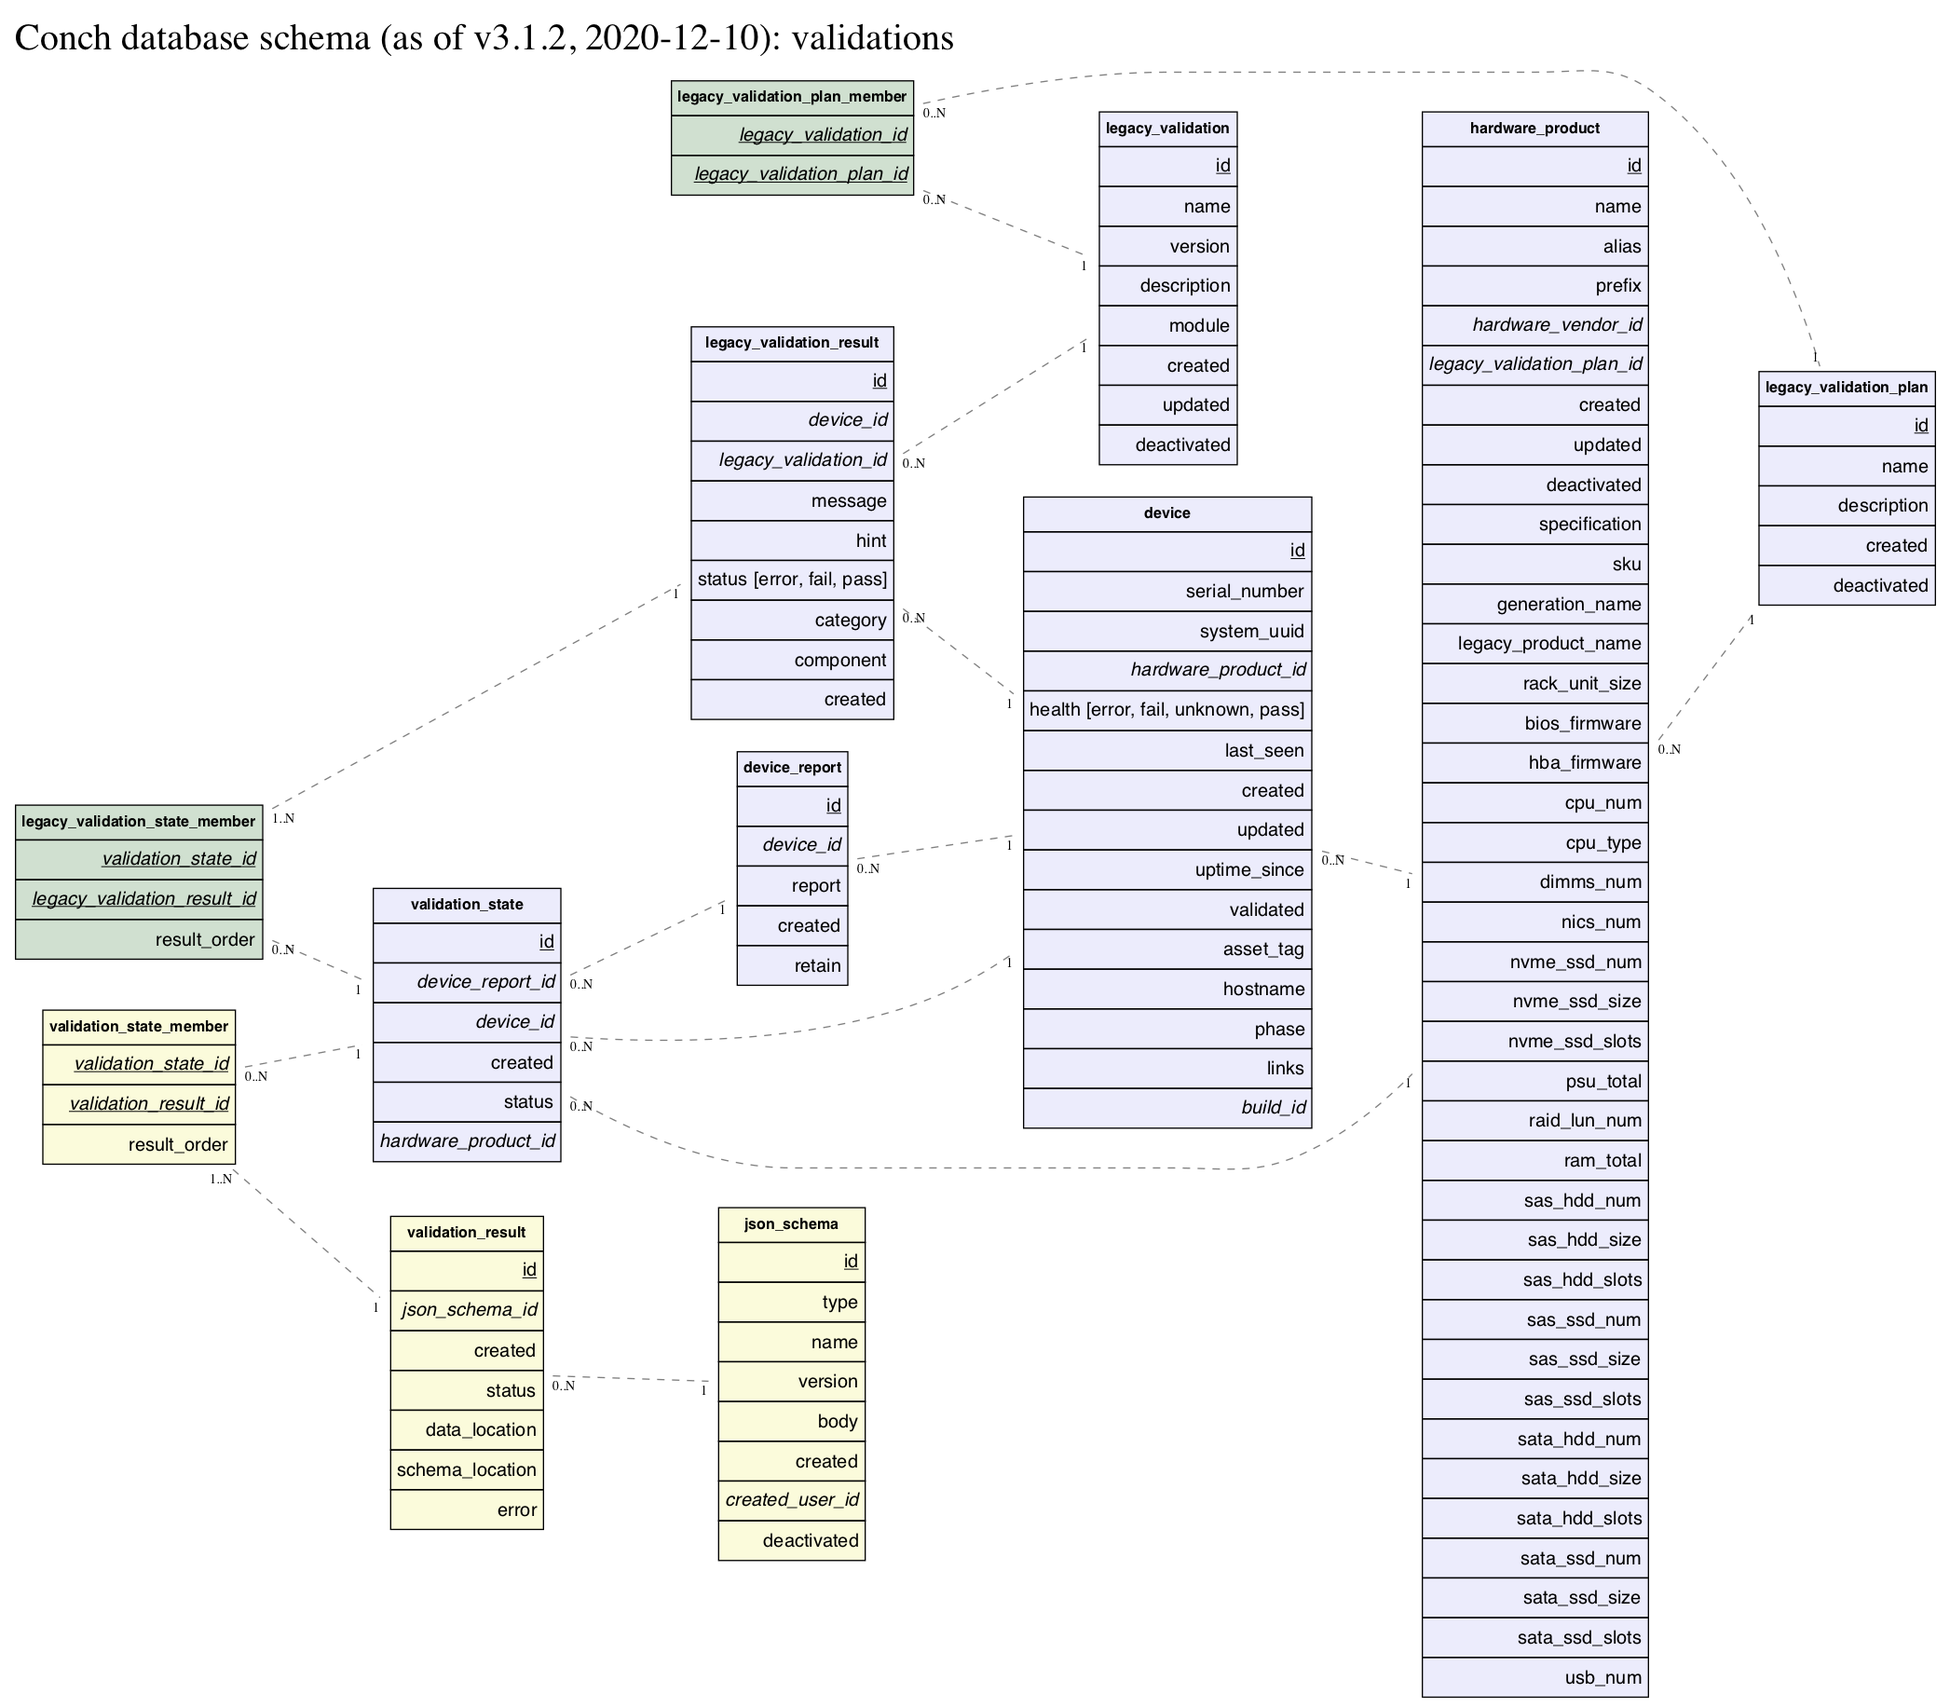
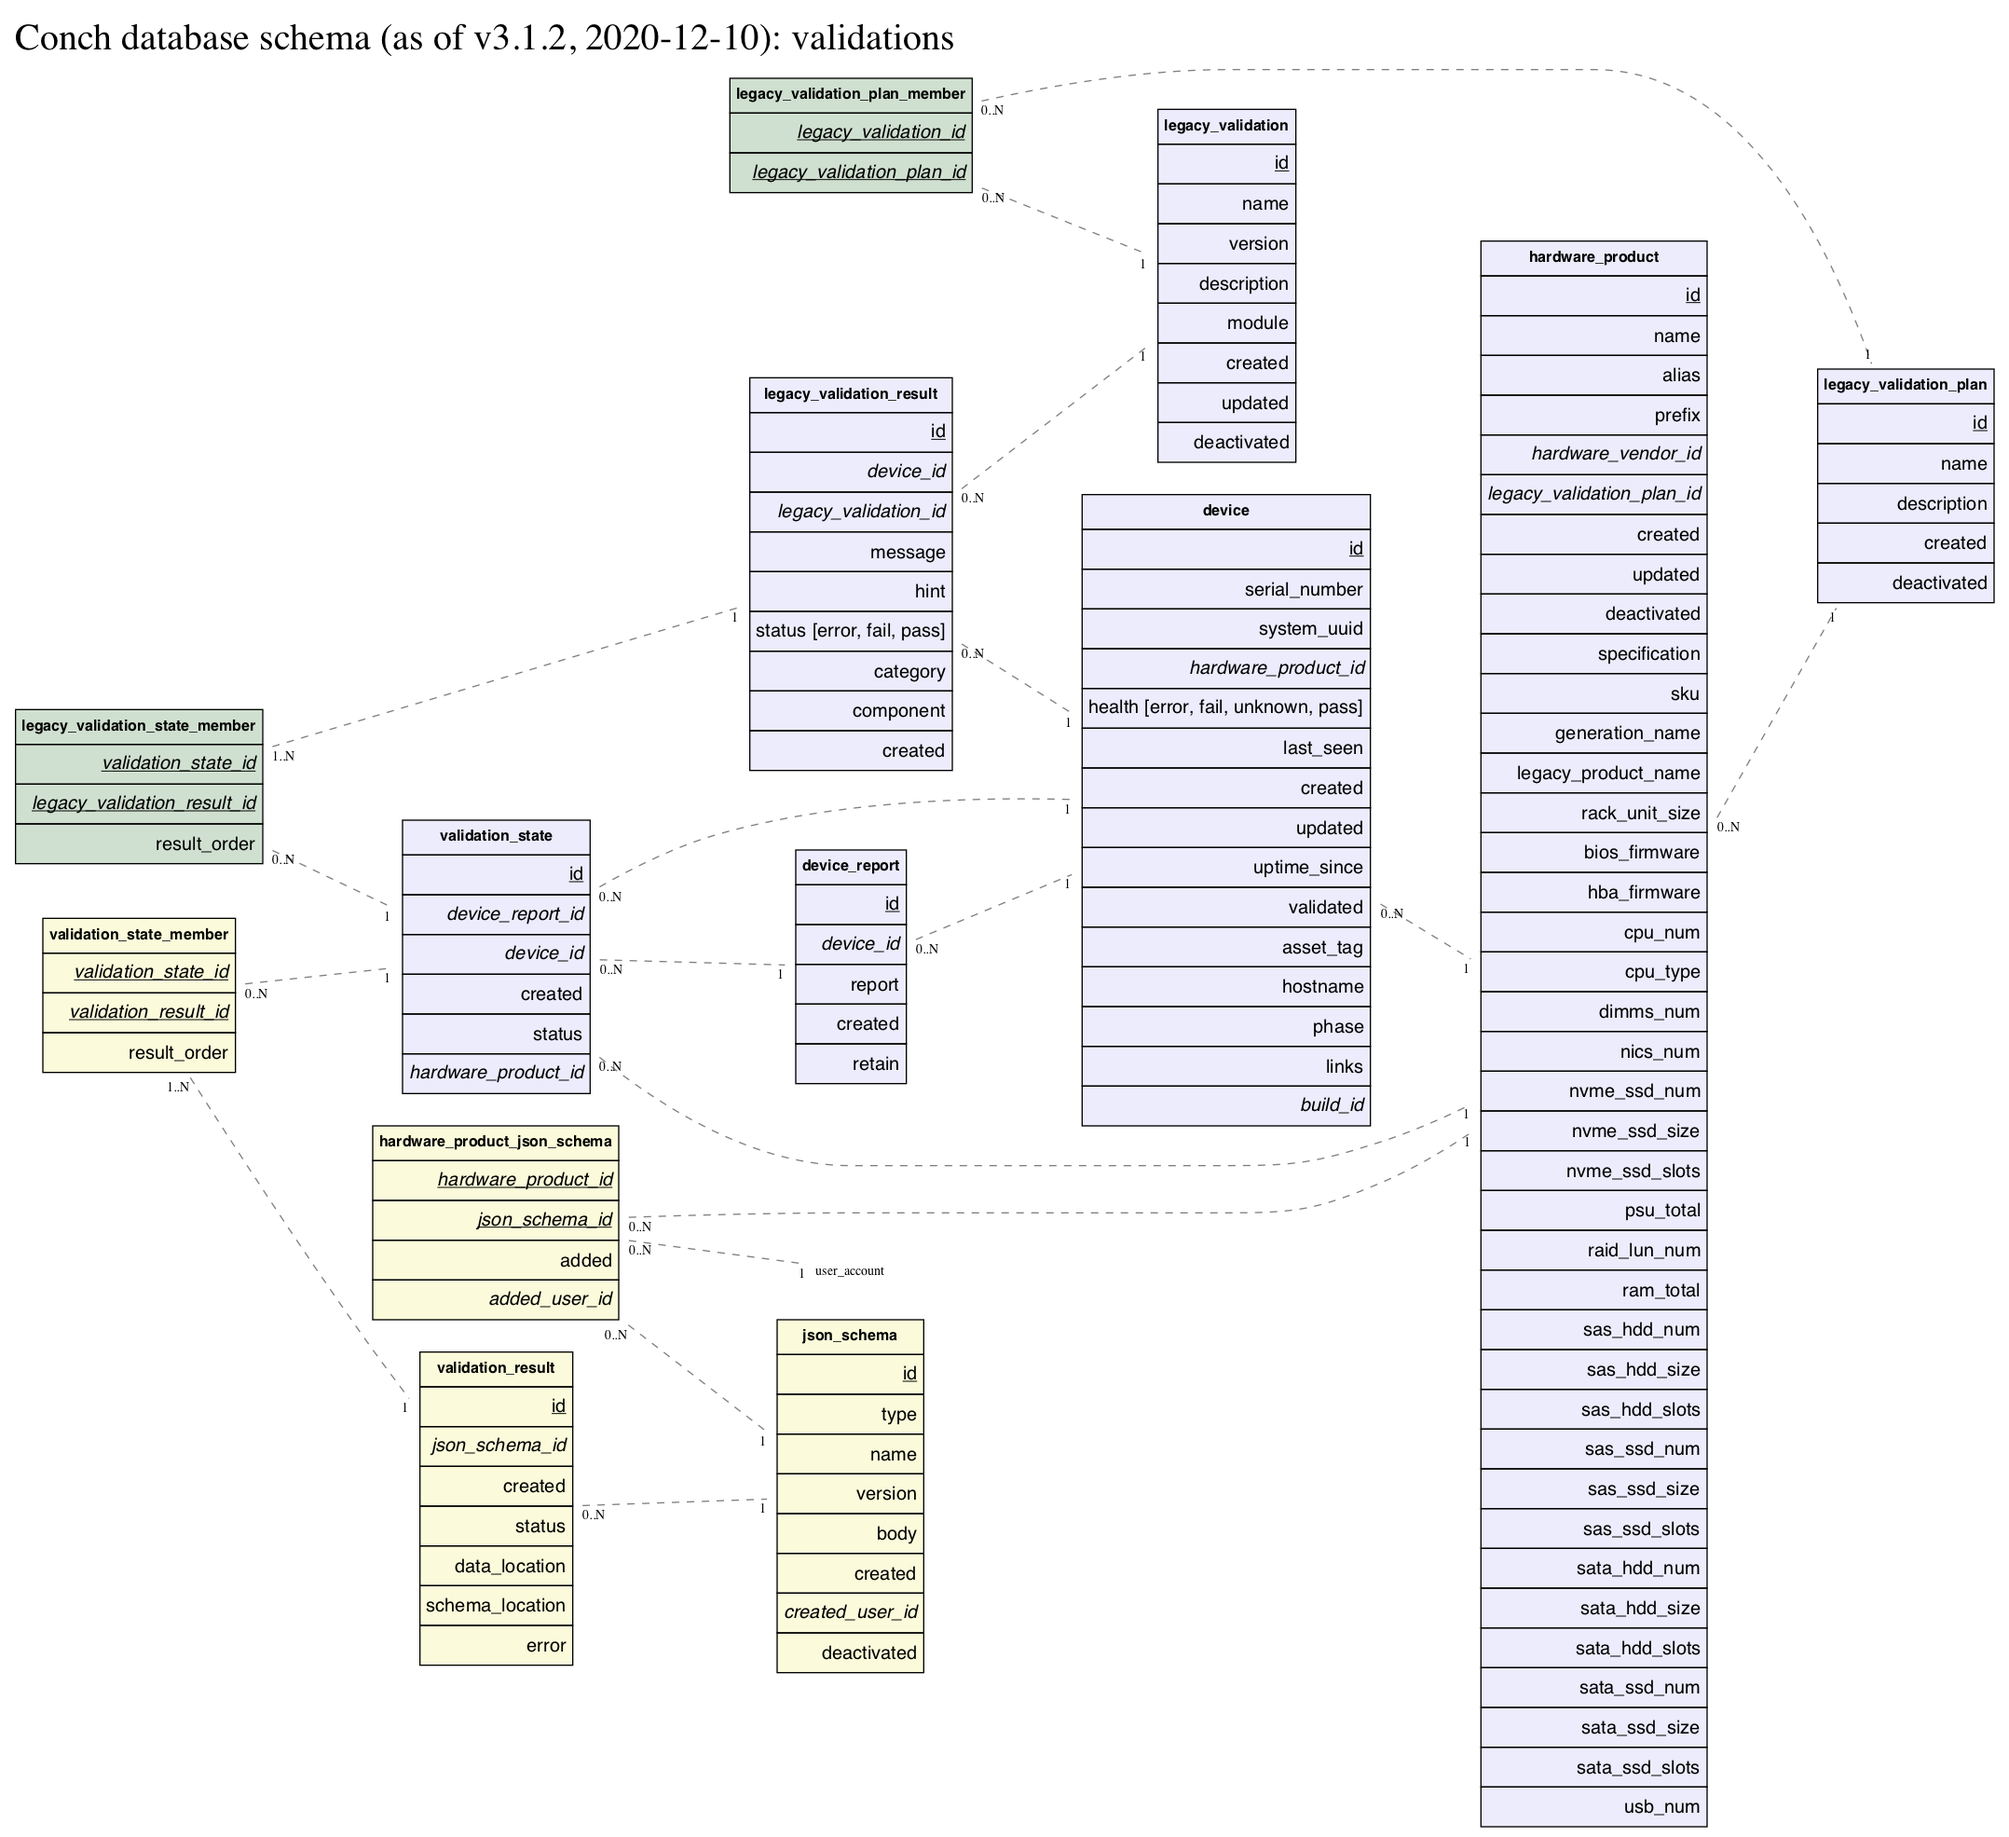
add hardware_product_json_schema table

diff --git a/docs/modules/Conch::DB::Result::HardwareProductJSONSchema.md b/docs/modules/Conch::DB::Result::HardwareProductJSONSchema.md
@@ -1,0 +1,80 @@
+# Conch::DB::Result::HardwareProductJSONSchema
+
+## SOURCE
+
+[https://github.com/joyent/conch-api/blob/master/lib/Conch/DB/Result/HardwareProductJSONSchema.pm](https://github.com/joyent/conch-api/blob/master/lib/Conch/DB/Result/HardwareProductJSONSchema.pm)
+
+## BASE CLASS: [Conch::DB::Result](../modules/Conch%3A%3ADB%3A%3AResult)
+
+## TABLE: `hardware_product_json_schema`
+
+## ACCESSORS
+
+### hardware\_product\_id
+
+```
+data_type: 'uuid'
+is_foreign_key: 1
+is_nullable: 0
+size: 16
+```
+
+### json\_schema\_id
+
+```
+data_type: 'uuid'
+is_foreign_key: 1
+is_nullable: 0
+size: 16
+```
+
+### added
+
+```
+data_type: 'timestamp with time zone'
+default_value: current_timestamp
+is_nullable: 0
+original: {default_value => \"now()"}
+```
+
+### added\_user\_id
+
+```
+data_type: 'uuid'
+is_foreign_key: 1
+is_nullable: 0
+size: 16
+```
+
+## PRIMARY KEY
+
+- ["hardware\_product\_id"](#hardware_product_id)
+- ["json\_schema\_id"](#json_schema_id)
+
+## RELATIONS
+
+### added\_user
+
+Type: belongs\_to
+
+Related object: [Conch::DB::Result::UserAccount](../modules/Conch%3A%3ADB%3A%3AResult%3A%3AUserAccount)
+
+### hardware\_product
+
+Type: belongs\_to
+
+Related object: [Conch::DB::Result::HardwareProduct](../modules/Conch%3A%3ADB%3A%3AResult%3A%3AHardwareProduct)
+
+### json\_schema
+
+Type: belongs\_to
+
+Related object: [Conch::DB::Result::JSONSchema](../modules/Conch%3A%3ADB%3A%3AResult%3A%3AJSONSchema)
+
+## LICENSING
+
+Copyright Joyent, Inc.
+
+This Source Code Form is subject to the terms of the Mozilla Public License,
+v.2.0. If a copy of the MPL was not distributed with this file, You can obtain
+one at [https://www.mozilla.org/en-US/MPL/2.0/](https://www.mozilla.org/en-US/MPL/2.0/).

diff --git a/docs/modules/index.md b/docs/modules/index.md
@@ -55,6 +55,7 @@
 * [Conch::DB::Result::DeviceReport](../modules/Conch::DB::Result::DeviceReport)
 * [Conch::DB::Result::DeviceSetting](../modules/Conch::DB::Result::DeviceSetting)
 * [Conch::DB::Result::HardwareProduct](../modules/Conch::DB::Result::HardwareProduct)
+* [Conch::DB::Result::HardwareProductJSONSchema](../modules/Conch::DB::Result::HardwareProductJSONSchema)
 * [Conch::DB::Result::HardwareVendor](../modules/Conch::DB::Result::HardwareVendor)
 * [Conch::DB::Result::JSONSchema](../modules/Conch::DB::Result::JSONSchema)
 * [Conch::DB::Result::LegacyValidation](../modules/Conch::DB::Result::LegacyValidation)

diff --git a/docs/modules/Conch::DB::Result::JSONSchema.md b/docs/modules/Conch::DB::Result::JSONSchema.md
@@ -92,6 +92,12 @@ Type: belongs\_to
 
 Related object: [Conch::DB::Result::UserAccount](../modules/Conch%3A%3ADB%3A%3AResult%3A%3AUserAccount)
 
+### hardware\_product\_json\_schemas
+
+Type: has\_many
+
+Related object: [Conch::DB::Result::HardwareProductJSONSchema](../modules/Conch%3A%3ADB%3A%3AResult%3A%3AHardwareProductJSONSchema)
+
 ### validation\_results
 
 Type: has\_many

diff --git a/docs/modules/Conch::DB::Result::HardwareProduct.md b/docs/modules/Conch::DB::Result::HardwareProduct.md
@@ -325,6 +325,12 @@ Type: has\_many
 
 Related object: [Conch::DB::Result::Device](../modules/Conch%3A%3ADB%3A%3AResult%3A%3ADevice)
 
+### hardware\_product\_json\_schemas
+
+Type: has\_many
+
+Related object: [Conch::DB::Result::HardwareProductJSONSchema](../modules/Conch%3A%3ADB%3A%3AResult%3A%3AHardwareProductJSONSchema)
+
 ### hardware\_vendor
 
 Type: belongs\_to

diff --git a/docs/modules/Conch::DB::Result::UserAccount.md b/docs/modules/Conch::DB::Result::UserAccount.md
@@ -106,6 +106,12 @@ Type: has\_many
 
 Related object: [Conch::DB::Result::Build](../modules/Conch%3A%3ADB%3A%3AResult%3A%3ABuild)
 
+### hardware\_product\_json\_schemas
+
+Type: has\_many
+
+Related object: [Conch::DB::Result::HardwareProductJSONSchema](../modules/Conch%3A%3ADB%3A%3AResult%3A%3AHardwareProductJSONSchema)
+
 ### json\_schemas
 
 Type: has\_many
